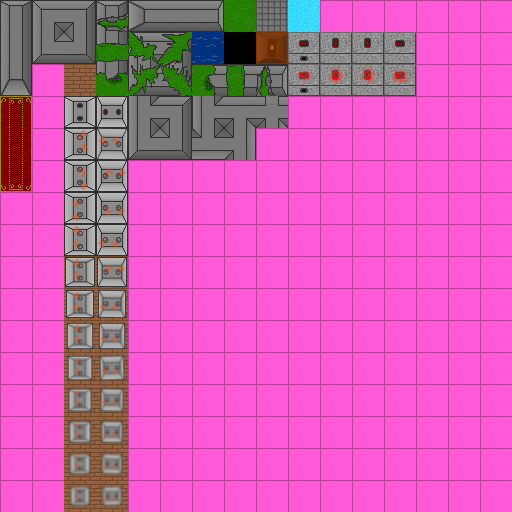
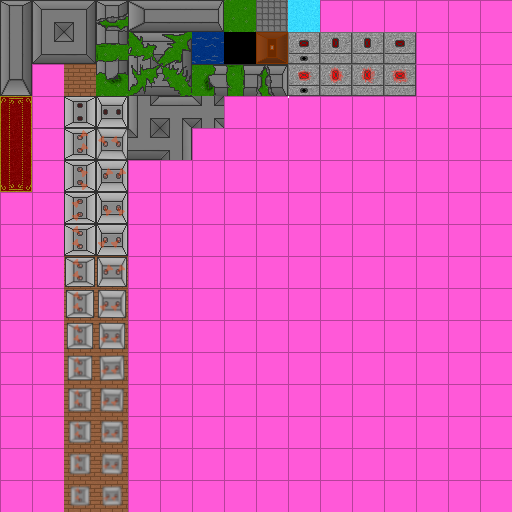
Added T and X junction walls

Changed region(s): [[0.3125, 0.1875, 0.5625, 0.3125], [0.25, 0.25, 0.2812, 0.3125]]

diff --git a/game/tile/TileWall.java b/game/tile/TileWall.java
@@ -20,6 +20,12 @@ public class TileWall extends Tile {
 	public static final int WALL_VERTICAL_TOP = 0;
 	public static final int WALL_VERTICAL = 16;
 	public static final int WALL_VERTICAL_BOTTOM = 32;
+	
+	public static final int WALL_TJUNC_RIGHT = 52;
+	public static final int WALL_TJUNC_DOWN = 53;
+	public static final int WALL_XJUNC = 54;
+	public static final int WALL_TJUNC_UP = 68;
+	public static final int WALL_TJUNC_LEFT = 69;
 	public String tileName = "Wall "+sprite;
 	public TileWall(int typ) {
 		sprite = typ;

diff --git a/game/tile/Tile.java b/game/tile/Tile.java
@@ -48,7 +48,12 @@ public class Tile implements Serializable {
 			new TileDispenser(2, false),
 			new TileDispenser(2, true),
 			new TileDispenser(3, false),
-			new TileDispenser(3, true)};
+			new TileDispenser(3, true),
+			new TileWall(TileWall.WALL_TJUNC_RIGHT),
+			new TileWall(TileWall.WALL_TJUNC_LEFT),
+			new TileWall(TileWall.WALL_TJUNC_UP),
+			new TileWall(TileWall.WALL_TJUNC_DOWN),
+			new TileWall(TileWall.WALL_XJUNC)};
 
 	boolean canPassThrough = true;
 	public int sprite = 0;
